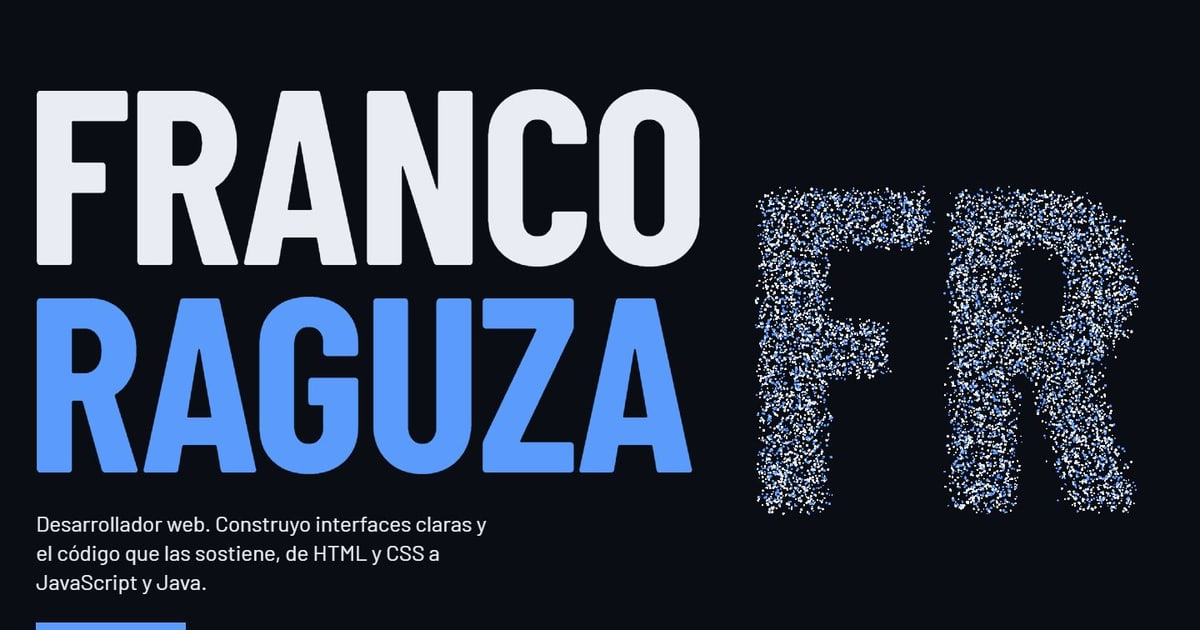
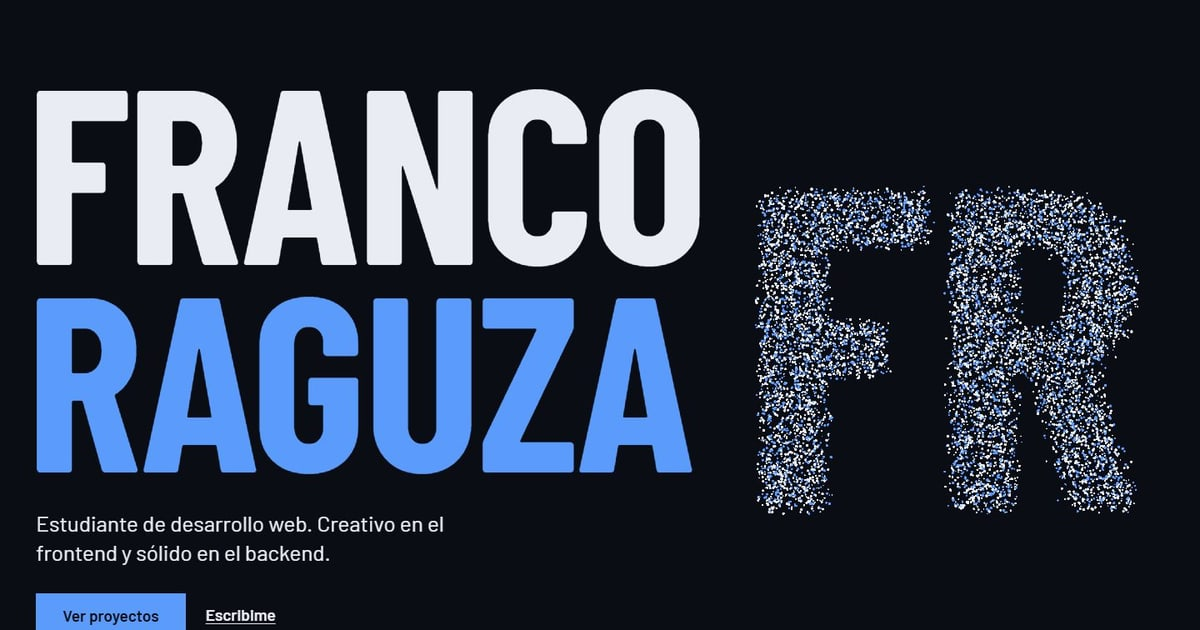
Finalise site copy, remove placeholders and example env file
Proofread the texts written by Franco (spelling, accents, punctuation and a
missing comma that broke the build), keep his Rioplatense voseo and apply it
consistently to everything addressed to the visitor. Use "portafolio"
throughout, drop the PLACEHOLDER markers and the unused placeholder project
flag, delete .env.example, refresh the sharing image and cover, and break the
footer email after the at sign on narrow screens.

Changed region(s): [[0.0308, 0.8143, 0.4008, 0.9952]]

diff --git a/src/content/about.ts b/src/content/about.ts
@@ -1,8 +1,5 @@
 /*
  * Textos de la presentación: quién soy, qué me distingue, misión y visión.
- *
- * PLACEHOLDER: todo este archivo es texto provisional, escrito para que el
- * diseño se vea con longitudes reales. Sustitúyelo por tus propias palabras.
  */
 
 export type Mark = 'accent' | 'light' | 'soft';
@@ -15,31 +12,34 @@ export interface Segment {
   strong?: boolean;
 }
 
-// PLACEHOLDER — Quién soy (110–160 palabras, 5–7 resaltados).
+/*
+ * Quién soy. Los espacios y la puntuación van siempre en los tramos sin
+ * resaltar, para que el color no se extienda a un espacio o a un punto.
+ */
 export const whoIAm: Segment[] = [
-  { text: 'Soy ' },
-  { text: 'Franco Raguza', strong: true },
-  { text: ', desarrollador web en formación. Estudio ' },
+  { text: 'Me llamo ' },
+  { text: 'Franco I. Raguza', strong: true },
+  { text: ' y soy estudiante de 2.º de ' },
   { text: 'Desarrollo de Aplicaciones Web', mark: 'light' },
-  { text: ', y paso los días entre ' },
+  { text: '. Empecé programando un saludo en ' },
   { text: 'Java', mark: 'soft' },
-  { text: ' en el servidor y ' },
-  { text: 'JavaScript', mark: 'accent' },
+  { text: '; hoy por hoy construyo ' },
+  { text: 'páginas', mark: 'accent' },
+  { text: ' totalmente funcionales, proyectos documentados y todo versionado en ' },
+  { text: 'GitHub', mark: 'light' },
+  { text: '. Integro el uso de herramientas de ' },
+  { text: 'IA', mark: 'soft' },
+  { text: ' tanto en mis proyectos como en el aprendizaje. Este ' },
+  { text: 'portafolio', mark: 'accent' },
   {
-    text: ' en el navegador. Empecé programando una agenda por consola y un banco de mentira; hoy maqueto páginas con ',
-  },
-  { text: 'Flexbox y Grid', mark: 'light' },
-  { text: ', documento mis clases con Javadoc y lo versiono todo en ' },
-  { text: 'GitHub', mark: 'soft' },
-  {
-    text: '. Me gusta entender por qué funciona algo antes de darlo por terminado, y prefiero una interfaz sencilla que se explique sola a una llena de adornos. Este portfolio es mi cuaderno de trabajo: aquí dejo lo que construyo, lo que aprendo y lo que todavía me queda por pulir. Si buscas a alguien con ganas de aprender y de terminar lo que empieza,',
+    text: ' es el cúmulo de mi experiencia y conocimientos, mi libreta de viaje: aquí está lo que construyo, lo que aprendo y lo que voy a hacer. Si buscabas a alguien movido por la curiosidad, motivado por aprender y determinado a innovar,',
   },
 ];
 
-// PLACEHOLDER — Frase final de "Quién soy": enlaza con el contacto.
-export const whoIAmClosing = 'hablemos.';
+/** Frase final de «Quién soy»: enlaza con el contacto. */
+export const whoIAmClosing = '¿por qué no hablamos?';
 
-// PLACEHOLDER — Qué me distingue (título de 2–4 palabras + una frase).
+/** Qué me distingue: título de 2–4 palabras y una frase. */
 export const distinctions = [
   {
     title: 'Termino lo que empiezo',
@@ -47,7 +47,7 @@ export const distinctions = [
   },
   {
     title: 'Leo antes de escribir',
-    text: 'Dedico tiempo a la documentación y al código ajeno antes de tocar una línea.',
+    text: 'Dedico tiempo a entender la documentación y el código ajeno antes de tocar una línea.',
   },
   {
     title: 'Cliente y servidor',
@@ -63,13 +63,13 @@ export const distinctions = [
   },
 ] as const;
 
-// PLACEHOLDER — Misión y visión (una frase de 20–30 palabras cada una).
+/** Misión y visión: 20–30 palabras cada una. */
 export const mission = {
   title: 'Misión',
-  text: 'Construir páginas y aplicaciones web que cualquiera pueda usar sin esfuerzo, con un código que otra persona pueda leer, entender y mantener.',
+  text: 'Desarrollar aplicaciones y páginas web que integren creatividad, funcionalidad y accesibilidad, con un código limpio, legible y estructurado.',
 };
 
 export const vision = {
   title: 'Visión',
-  text: 'Crecer como desarrollador full stack dentro de un equipo del que aprender, y que mi trabajo se reconozca por lo bien que funciona.',
+  text: 'Trabajar como desarrollador full stack dentro de un equipo del cual aprender. Construir soluciones que destaquen por ser funcionales.',
 };

diff --git a/src/content/contact.ts b/src/content/contact.ts
@@ -1,38 +1,40 @@
-/* Textos de la sección de contacto y del formulario. */
+/*
+ * Textos de la sección de contacto y del formulario.
+ * Todo lo que se dirige a quien visita el sitio va en voseo (escribime, podés, contame).
+ */
 
 export const contact = {
-  title: 'Escríbeme un mensaje',
-  // PLACEHOLDER: ajusta el plazo de respuesta a lo que de verdad puedas cumplir.
-  note: 'Leo todos los mensajes y respondo en un par de días. Si lo prefieres, también puedes escribirme por aquí:',
+  title: 'Escribime un mensaje',
+  note: 'Leo todos los mensajes y responderé en un plazo máximo de 2 días. Si lo preferís, también podés escribirme por aquí:',
   submit: 'Enviar mensaje',
   sending: 'Enviando…',
   demoNotice: 'Modo demostración: el formulario no está conectado y el mensaje no se envía.',
   success: {
     title: 'Mensaje enviado',
-    text: 'Gracias por escribir. Te responderé al correo que has indicado.',
+    text: 'Gracias por escribir. Responderé al correo que indicaste.',
     again: 'Enviar otro mensaje',
   },
   failure: {
     network:
-      'No se ha podido enviar: parece que no hay conexión. Tu mensaje sigue aquí; inténtalo de nuevo en un momento.',
+      'No se pudo enviar: parece que no hay conexión. Tu mensaje sigue aquí; intentalo de nuevo en un momento.',
     rejected:
-      'El servicio de envío ha rechazado el mensaje. Tu texto sigue aquí; inténtalo de nuevo o escríbeme directamente por correo.',
+      'El servicio de envío rechazó el mensaje. Tu texto sigue aquí; intentalo de nuevo o escribime directamente por correo.',
   },
   fields: {
     name: {
       label: 'Nombre',
-      placeholder: 'Ada Lovelace…',
-      error: 'Escribe tu nombre.',
+      placeholder: 'Pepe Aguilar…',
+      error: 'Escribí tu nombre.',
     },
     email: {
       label: 'Correo electrónico',
-      placeholder: 'ada@ejemplo.com…',
-      error: 'Escribe un correo válido, como nombre@dominio.com.',
+      placeholder: 'pepe@ejemplo.com…',
+      error: 'Escribí un correo válido, como nombre@dominio.com.',
     },
     message: {
       label: 'Mensaje',
-      placeholder: 'Cuéntame qué necesitas…',
-      error: 'Cuéntame un poco más: al menos 10 caracteres.',
+      placeholder: 'Contame qué necesitás…',
+      error: 'Contame un poco más: al menos 10 caracteres.',
     },
   },
 } as const;

diff --git a/src/content/site.ts b/src/content/site.ts
@@ -1,7 +1,4 @@
-/*
- * Datos generales del sitio. Todo lo marcado como PLACEHOLDER hay que
- * sustituirlo por los datos reales antes de dar el sitio por terminado.
- */
+/* Datos generales del sitio: nombre, frase del inicio y enlaces. */
 
 export const site = {
   name: 'Franco Raguza',
@@ -9,17 +6,14 @@ export const site = {
   lastName: 'Raguza',
   monogram: 'FR',
   role: 'Desarrollador web',
-  // PLACEHOLDER: frase de presentación del hero (máx. ~22 palabras).
-  tagline:
-    'Desarrollador web. Construyo interfaces claras y el código que las sostiene, de HTML y CSS a JavaScript y Java.',
+  /** Frase de presentación del inicio (máx. ~22 palabras). */
+  tagline: 'Estudiante de desarrollo web. Creativo en el frontend y sólido en el backend.',
   githubUser: 'francoismaelraguza',
   repoUrl: 'https://github.com/francoismaelraguza/PortafolioWeb',
   links: {
     github: 'https://github.com/francoismaelraguza',
-    // PLACEHOLDER: URL real del perfil de LinkedIn.
-    linkedin: 'https://www.linkedin.com/',
-    // PLACEHOLDER: correo público de contacto.
-    email: 'hola@example.com',
+    linkedin: 'https://www.linkedin.com/in/franco-ismael-raguza-79b1a6397/',
+    email: 'francoismaelraguza@gmail.com',
   },
 } as const;
 

diff --git a/index.html b/index.html
@@ -8,7 +8,7 @@
     <title>Franco Raguza · Desarrollador web</title>
     <meta
       name="description"
-      content="Portfolio de Franco Raguza, desarrollador web: quién soy, mis proyectos de GitHub y cómo contactar conmigo."
+      content="Portafolio de Franco Raguza, desarrollador web: quién soy, mis proyectos de GitHub y cómo contactar conmigo."
     />
     <link rel="canonical" href="https://francoismaelraguza.github.io/PortafolioWeb/" />
     <link rel="icon" type="image/svg+xml" href="/favicon.svg" />
@@ -36,7 +36,7 @@
     <div id="root"></div>
     <noscript>
       <p style="padding: 24px; font-family: sans-serif; color: #e9edf3">
-        Este portfolio necesita JavaScript para mostrarse. Mientras tanto, puedes ver mis proyectos
+        Este portafolio necesita JavaScript para mostrarse. Mientras tanto, podés ver mis proyectos
         en <a href="https://github.com/francoismaelraguza" style="color: #5a9bfc">GitHub</a>.
       </p>
     </noscript>

diff --git a/src/components/Footer.tsx b/src/components/Footer.tsx
@@ -4,6 +4,8 @@ import s from './Footer.module.css';
 
 export function Footer() {
   const year = new Date().getFullYear();
+  // Si el correo no cabe en la columna, se parte justo después de la arroba.
+  const [emailUser, emailDomain] = site.links.email.split('@');
 
   return (
     <footer className={s.footer} data-chapter="bg" data-shape="point" data-reveal-group>
@@ -43,8 +45,11 @@ export function Footer() {
           <h2 className={s.heading}>Contacto</h2>
           <ul>
             <li>
-              <a className={s.link} href={`mailto:${site.links.email}`}>
-                {site.links.email}
+              <a className={s.link} href={`mailto:${site.links.email}`} translate="no">
+                <span>
+                  {emailUser}@<wbr />
+                  {emailDomain}
+                </span>
               </a>
             </li>
             <li>

diff --git a/src/lib/sendMessage.ts b/src/lib/sendMessage.ts
@@ -32,8 +32,8 @@ export async function sendMessage(message: ContactMessage): Promise<SendResult> 
       headers: { 'Content-Type': 'application/json', Accept: 'application/json' },
       body: JSON.stringify({
         access_key: ACCESS_KEY,
-        subject: `Mensaje de ${message.name} desde el portfolio`,
-        from_name: `Portfolio de ${site.name}`,
+        subject: `Mensaje de ${message.name} desde el portafolio`,
+        from_name: `Portafolio de ${site.name}`,
         name: message.name,
         email: message.email,
         message: message.message,

diff --git a/src/sections/Projects.tsx b/src/sections/Projects.tsx
@@ -56,7 +56,7 @@ export function Projects() {
           <h2 id="projects-title" className={s.title}>
             Proyectos
           </h2>
-          <p className={s.note}>Todavía no hay proyectos publicados. Vuelve pronto.</p>
+          <p className={s.note}>Todavía no hay proyectos publicados. Volvé pronto.</p>
         </header>
       </section>
     );

diff --git a/src/sections/Hero.tsx b/src/sections/Hero.tsx
@@ -25,7 +25,7 @@ export function Hero() {
         <div className={s.actions}>
           <Button href="#proyectos">Ver proyectos</Button>
           <a className={s.secondary} href="#contacto">
-            Escríbeme
+            Escribime
           </a>
         </div>
       </div>

diff --git a/src/data/projects.ts b/src/data/projects.ts
@@ -16,7 +16,6 @@ export interface Project {
   image: string | null;
   imageAlt: string;
   demo: string | null;
-  placeholder: boolean;
   languages: ProjectLanguage[];
   topics: string[];
   stars: number;

diff --git a/CLAUDE.md b/CLAUDE.md
@@ -1,6 +1,6 @@
 # PortafolioWeb
 
-Portfolio personal de Franco Raguza: una sola página en español con presentación, proyectos de GitHub y contacto, y una escena Three.js que reacciona al scroll. Se publica en GitHub Pages (`https://francoismaelraguza.github.io/PortafolioWeb/`).
+Portafolio personal de Franco Raguza: una sola página en español con presentación, proyectos de GitHub y contacto, y una escena Three.js que reacciona al scroll. Se publica en GitHub Pages (`https://francoismaelraguza.github.io/PortafolioWeb/`).
 
 ## Comandos
 
@@ -16,7 +16,7 @@ Portfolio personal de Franco Raguza: una sola página en español con presentaci
 ## Estructura
 
 - `src/styles/tokens.css` — design tokens; **fuente de verdad** del manual (`docs/manual-de-diseno.md`).
-- `src/content/*.ts` — todos los textos. Lo marcado `PLACEHOLDER` es provisional.
+- `src/content/*.ts` — todos los textos, ya definitivos (escritos por Franco).
 - `src/sections/` — una sección por archivo (`.tsx` + `.module.css`). `src/components/` — piezas compartidas.
 - `src/three/` — escena React Three Fiber. `src/hooks/`, `src/lib/` — utilidades.
 - `projects.config.json` + `scripts/fetch-projects.mjs` — lista de repos y script que trae sus datos al compilar.
@@ -28,7 +28,8 @@ Portfolio personal de Franco Raguza: una sola página en español con presentaci
 - Cada sección declara `data-chapter` (`bg`, `field-1`, `field-2`) para la cabecera y `data-shape` (`fr`, `field`, `pair`, `grid`, `point`) para las partículas. Las partes que entran animadas llevan `data-reveal` dentro de un `data-reveal-group`.
 - Ningún componente usa un color, tamaño o espaciado que no sea un token de `tokens.css`.
 - Rutas de `public/` desde JS/TS: siempre `import.meta.env.BASE_URL + 'ruta'`, nunca `/ruta` (el sitio vive en `/PortafolioWeb/`).
-- Textos en español, primera persona. Sin datos personales inventados: lo que falte va como `PLACEHOLDER`.
+- Textos en español rioplatense, primera persona. Franco es argentino: lo que se dirige a quien visita el sitio va en **voseo** («escribime», «podés», «contame», «intentalo»); el voseo no es una errata y no se «corrige» a tú. Se dice «portafolio», no «portfolio». Sin datos personales inventados.
+- Al corregir textos de Franco: arreglar ortografía, tildes y puntuación, pero conservar sus palabras; avisar de cualquier cambio que no sea puramente ortográfico.
 - Commits locales por hito en la rama de trabajo. **Push y PR solo con permiso explícito.**
 
 ## Diseño: skills obligatorias

diff --git a/docs/mantenimiento.md b/docs/mantenimiento.md
@@ -1,18 +1,14 @@
 # Mantenimiento
 
-Guía práctica para mantener el portfolio al día. Para el porqué del diseño, ver el [manual de diseño](manual-de-diseno.md).
+Guía práctica para mantener el portafolio al día. Para el porqué del diseño, ver el [manual de diseño](manual-de-diseno.md).
 
-## Pendientes antes de dar el sitio por «real»
+## Pendientes antes de publicar
 
-Busca `PLACEHOLDER` en `src/content/` para encontrarlos todos.
+Los textos, el correo y el enlace de LinkedIn ya son los definitivos.
 
-- [ ] **Textos de presentación** — `src/content/about.ts`: quién soy, qué me distingue, misión y visión.
-- [ ] **Frase del inicio** — `src/content/site.ts` (`tagline`).
-- [ ] **Correo de contacto** — `src/content/site.ts` (`links.email`, ahora `hola@example.com`).
-- [ ] **LinkedIn** — `src/content/site.ts` (`links.linkedin`, ahora la portada de LinkedIn).
-- [ ] **Plazo de respuesta** — `src/content/contact.ts` (`note`).
-- [ ] **Descripciones de los proyectos** — `projects.config.json`: están escritas a partir de lo que hay en cada repo; revísalas.
-- [ ] **Prueba real del formulario** en el sitio publicado.
+- [ ] **Variable del formulario en GitHub** — crear `VITE_WEB3FORMS_KEY` en el repo (ver «Formulario de contacto»). Sin ella, el sitio publicado queda en modo demostración.
+- [ ] **Descripciones de los proyectos** — `projects.config.json`: están escritas a partir de lo que hay en cada repo; conviene que las revise Franco.
+- [ ] **Prueba real del formulario**, primero en local y después en el sitio publicado.
 
 ## Tareas habituales
 
@@ -20,7 +16,9 @@ Busca `PLACEHOLDER` en `src/content/` para encontrarlos todos.
 
 Todo el texto vive en `src/content/*.ts`. Edita, guarda y haz push a `main`: el sitio se vuelve a publicar solo.
 
-Límites que el diseño necesita: ningún título de más de dos líneas (unos 32 caracteres); «Quién soy» entre 110 y 160 palabras; misión y visión, una frase de 20–30 palabras cada una.
+Límites que el diseño necesita: ningún título de más de dos líneas (unos 32 caracteres); «Quién soy» entre 90 y 160 palabras; misión y visión, 20–30 palabras cada una.
+
+Los textos van en español rioplatense: lo que se dirige a quien visita el sitio usa el voseo («escribime», «podés», «contame»). En «Quién soy», los espacios y la puntuación van siempre fuera de los tramos resaltados.
 
 ### Añadir un proyecto
 

diff --git a/README.md b/README.md
@@ -1,6 +1,6 @@
 # PortafolioWeb
 
-Portfolio personal de Franco Raguza: una página con presentación, proyectos de GitHub y contacto, sobre una escena de partículas en Three.js que cambia de forma al hacer scroll.
+Portafolio personal de Franco Raguza: una página con presentación, proyectos de GitHub y contacto, sobre una escena de partículas en Three.js que cambia de forma al hacer scroll.
 
 **Sitio:** https://francoismaelraguza.github.io/PortafolioWeb/
 
@@ -26,7 +26,7 @@ npm run dev
 
 El sitio queda en `http://localhost:5173/PortafolioWeb/`.
 
-Para que el formulario envíe mensajes en local, copia `.env.example` como `.env.local` y pon tu access key de Web3Forms. Sin ella funciona en modo demostración.
+Para que el formulario envíe mensajes en local, crea un archivo `.env.local` en la raíz con una línea `VITE_WEB3FORMS_KEY=` seguida de tu access key de Web3Forms. Sin ella funciona en modo demostración.
 
 ## Comandos
 
